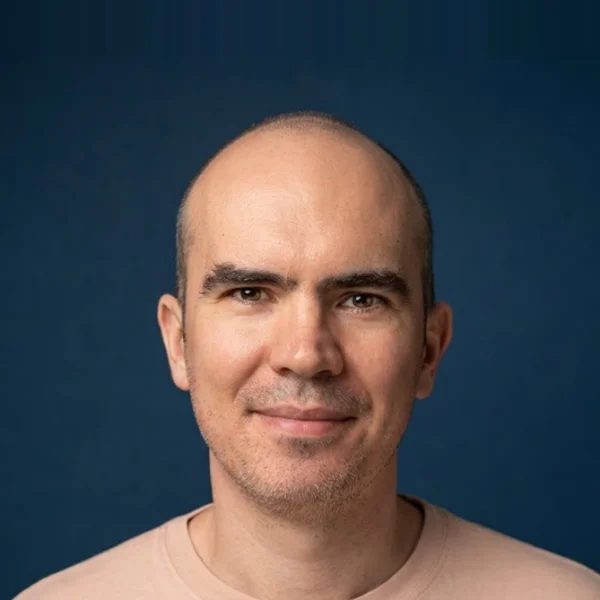
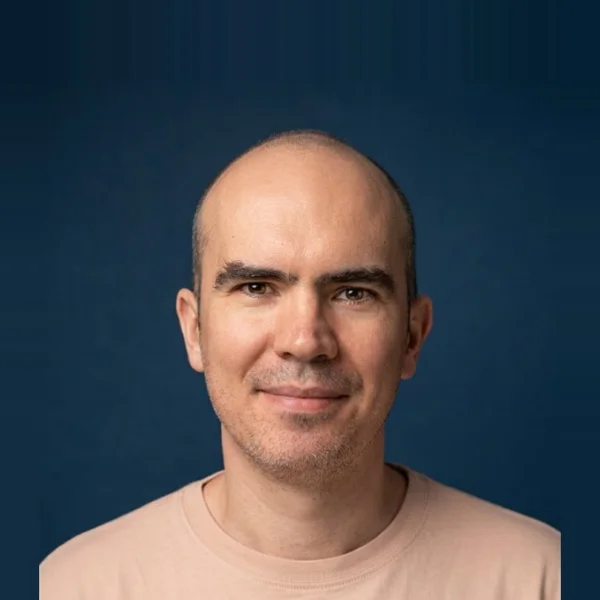
Студенты любого курса, плашка EMNLP без заливки, портрет Юрушкина в масштабе портрета Ильи

Changed region(s): [[0.0, 0.18, 1.0, 1.0]]

diff --git a/src/data/students.ts b/src/data/students.ts
@@ -1,5 +1,5 @@
 export const hero = {
-  kicker: "Для студентов 1–2 курса, которые уже пишут код",
+  kicker: "Для студентов, которые уже пишут код",
   h1: "Займись исследованиями в ИИ на первом курсе, а не после магистратуры",
   lead: "В Ростове почти негде заниматься генеративным ИИ на мировом уровне. Lamon это место: семинар и небольшие команды, которые делают настоящие исследования и доводят их до международных конференций. Ведут исследователи, чьи работы приняты на конференции уровня A*.",
   facts: ["Ростов-на-Дону и онлайн", "Отбор по навыкам, а не по курсу", "Небольшие команды"],
@@ -24,7 +24,7 @@ export const steps = [
 export const gains = [
   { title: "Первая конференция рано, а не после магистратуры", text: "Чем раньше ты попадёшь на сильную конференцию, тем быстрее поймёшь, как устроена наука на самом деле. После неё вопросов «что делать» уже не остаётся." },
   { title: "Публикации и знакомства", text: "Статья с тобой в авторах и люди из лабораторий со всего мира, с которыми ты говорил лично. Так открываются стажировки и магистратура там, куда без публикаций не зовут." },
-  { title: "Опыт для работы к концу второго курса", text: "Ты проходишь все стадии: поиск задачи, эксперименты, код, текст, выступление. Это и есть опыт, который спрашивают на собеседованиях, а не список прослушанных предметов." },
+  { title: "Опыт для работы ещё до диплома", text: "Ты проходишь все стадии: поиск задачи, эксперименты, код, текст, выступление. Это и есть опыт, который спрашивают на собеседованиях, а не список прослушанных предметов." },
   { title: "Свои люди", text: "Если тебе одному в группе нравится ML, здесь ты не один. Рядом те, кто делает то же самое, и те, кто уже прошёл этот путь." },
 ];
 export const route = [

diff --git a/src/styles/landing.css b/src/styles/landing.css
@@ -31,7 +31,7 @@
 .lcase h2{color:#fff;max-width:18ch;margin-bottom:18px}
 .lcase .lead{color:rgba(255,255,255,.9);max-width:46ch;margin:0}
 .lcase .paper{margin:22px 0 0;font-size:14px;color:rgba(255,255,255,.7);max-width:56ch}
-.lcase .stamp{position:absolute;top:28px;right:16px;z-index:1;background:var(--blue);color:#fff;font-weight:700;font-size:14px;padding:10px 14px;border-radius:3px;line-height:1.2}
+.lcase .stamp{position:absolute;top:28px;right:16px;z-index:1;color:rgba(255,255,255,.85);font-weight:500;font-size:14px;padding:8px 12px;border:1px solid rgba(255,255,255,.45);border-radius:3px;line-height:1.2}
 @media(min-width:720px){.lcase .stamp{right:32px;top:36px;font-size:15px}}
 
 /* тёмная секция с задачами */
